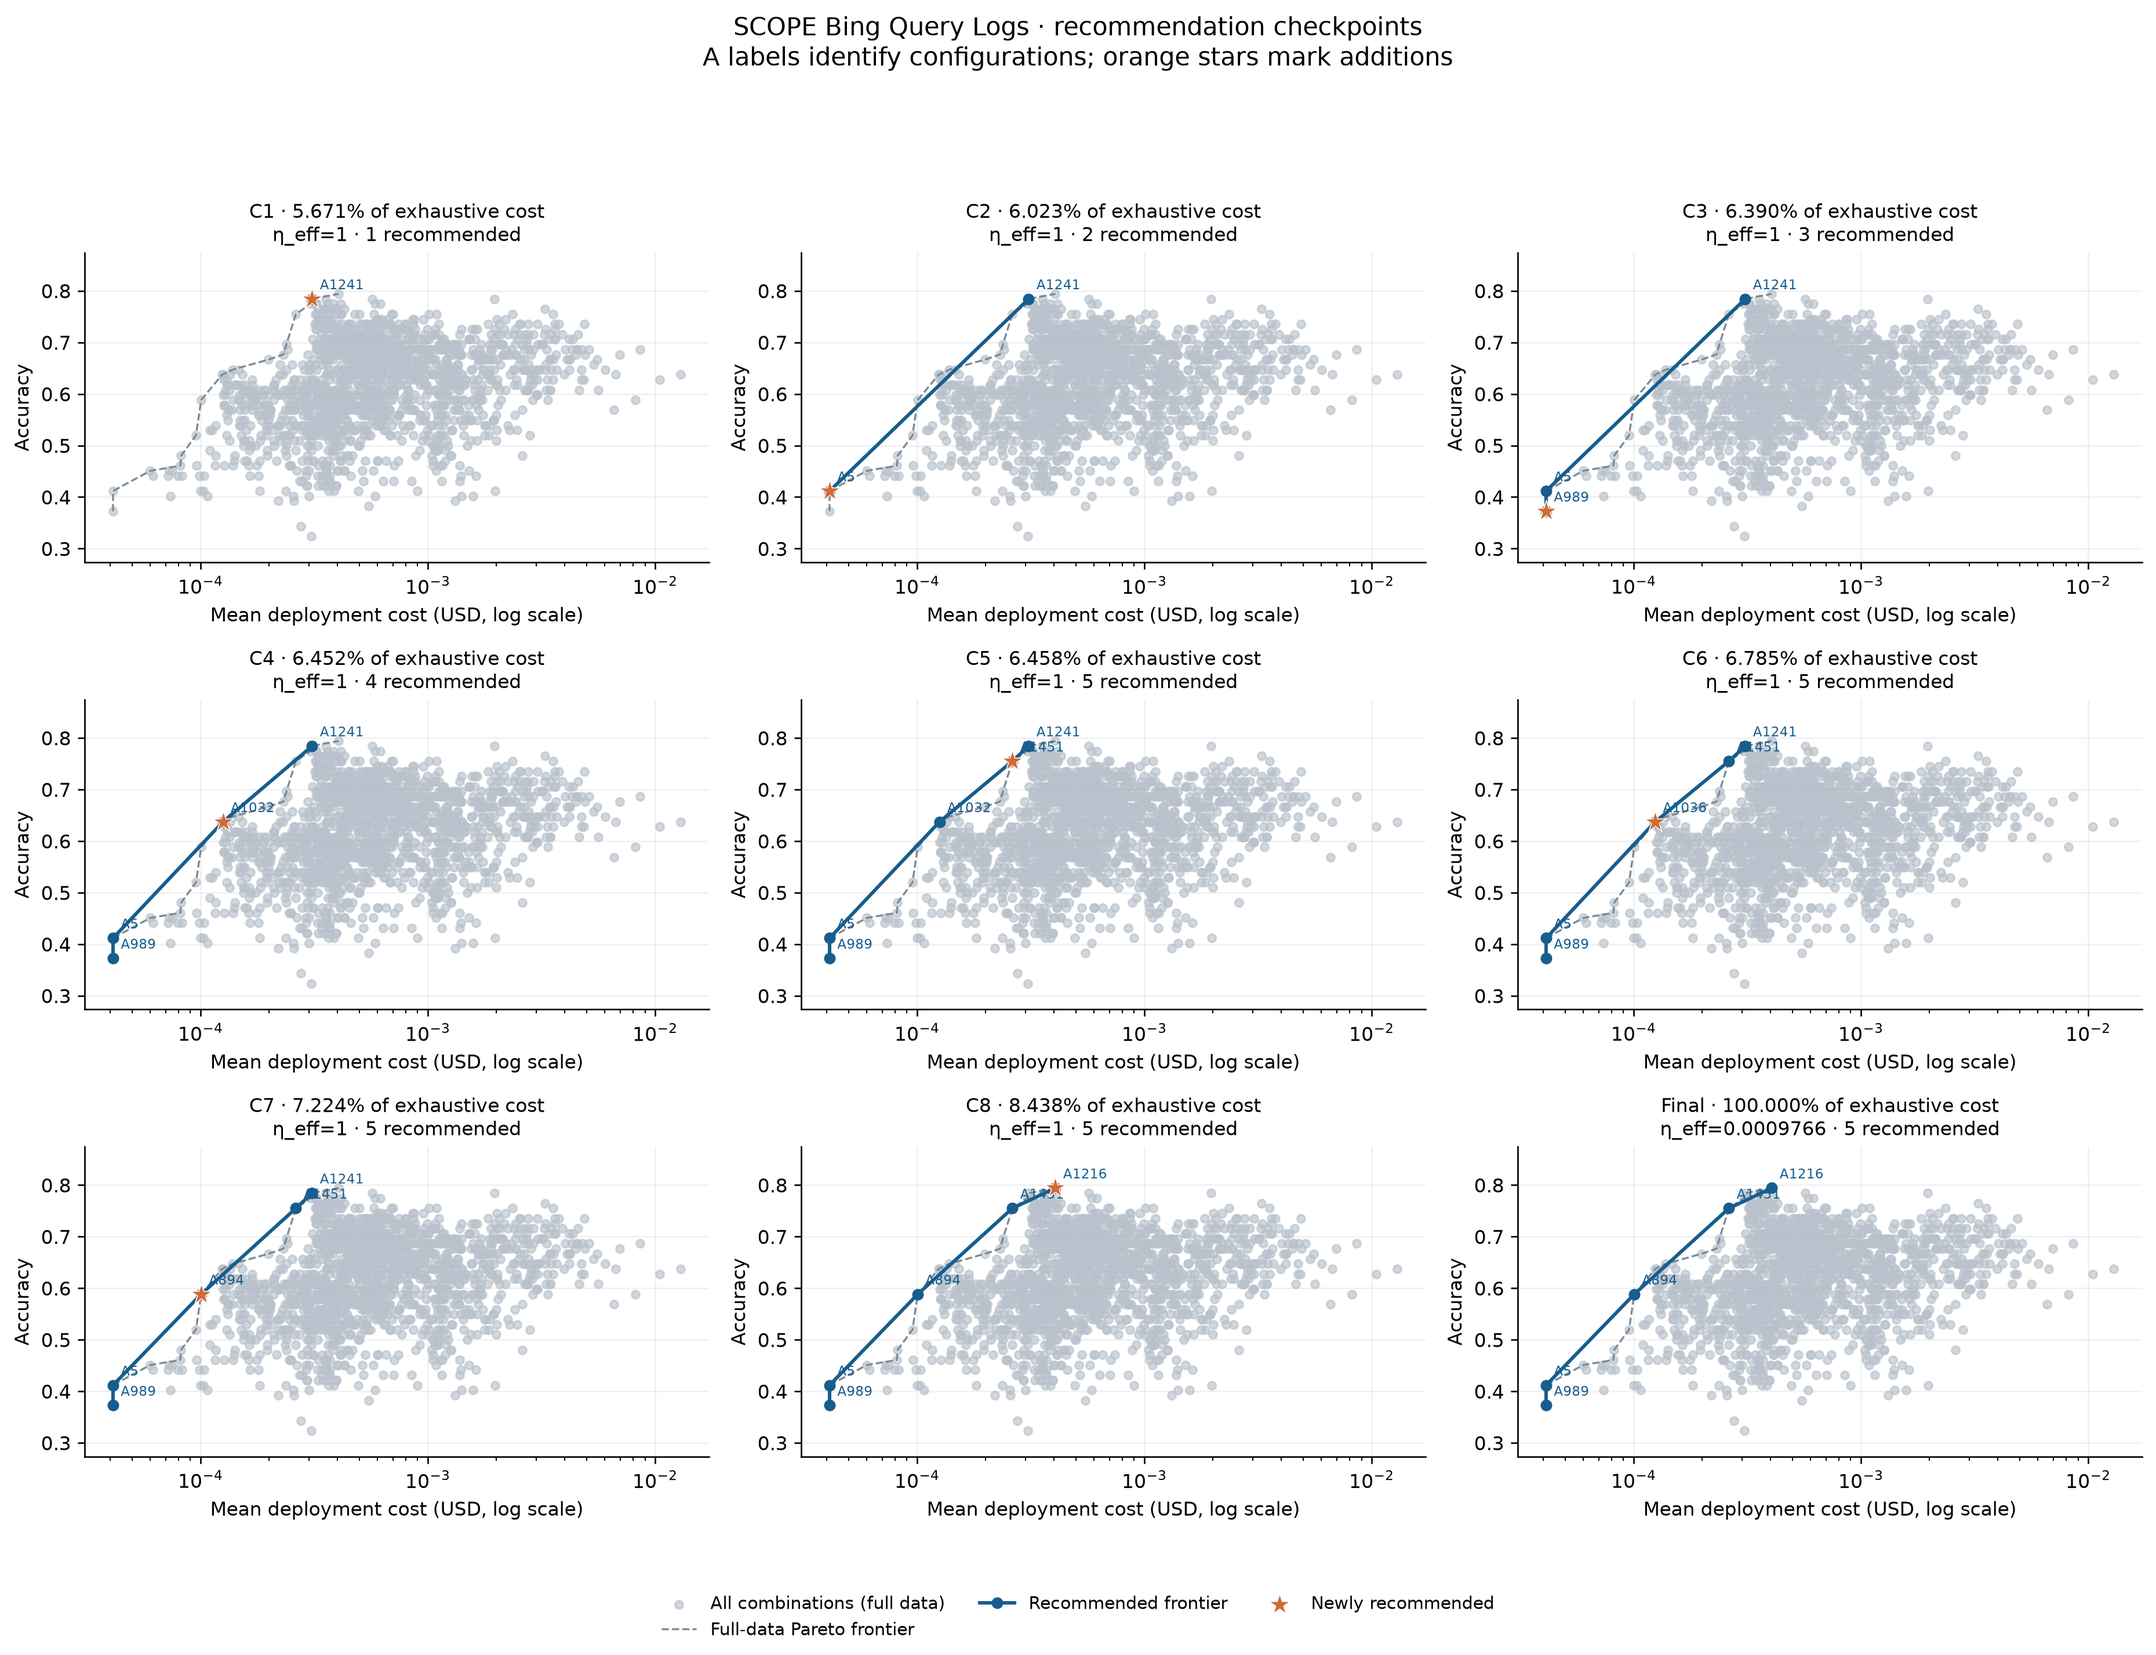
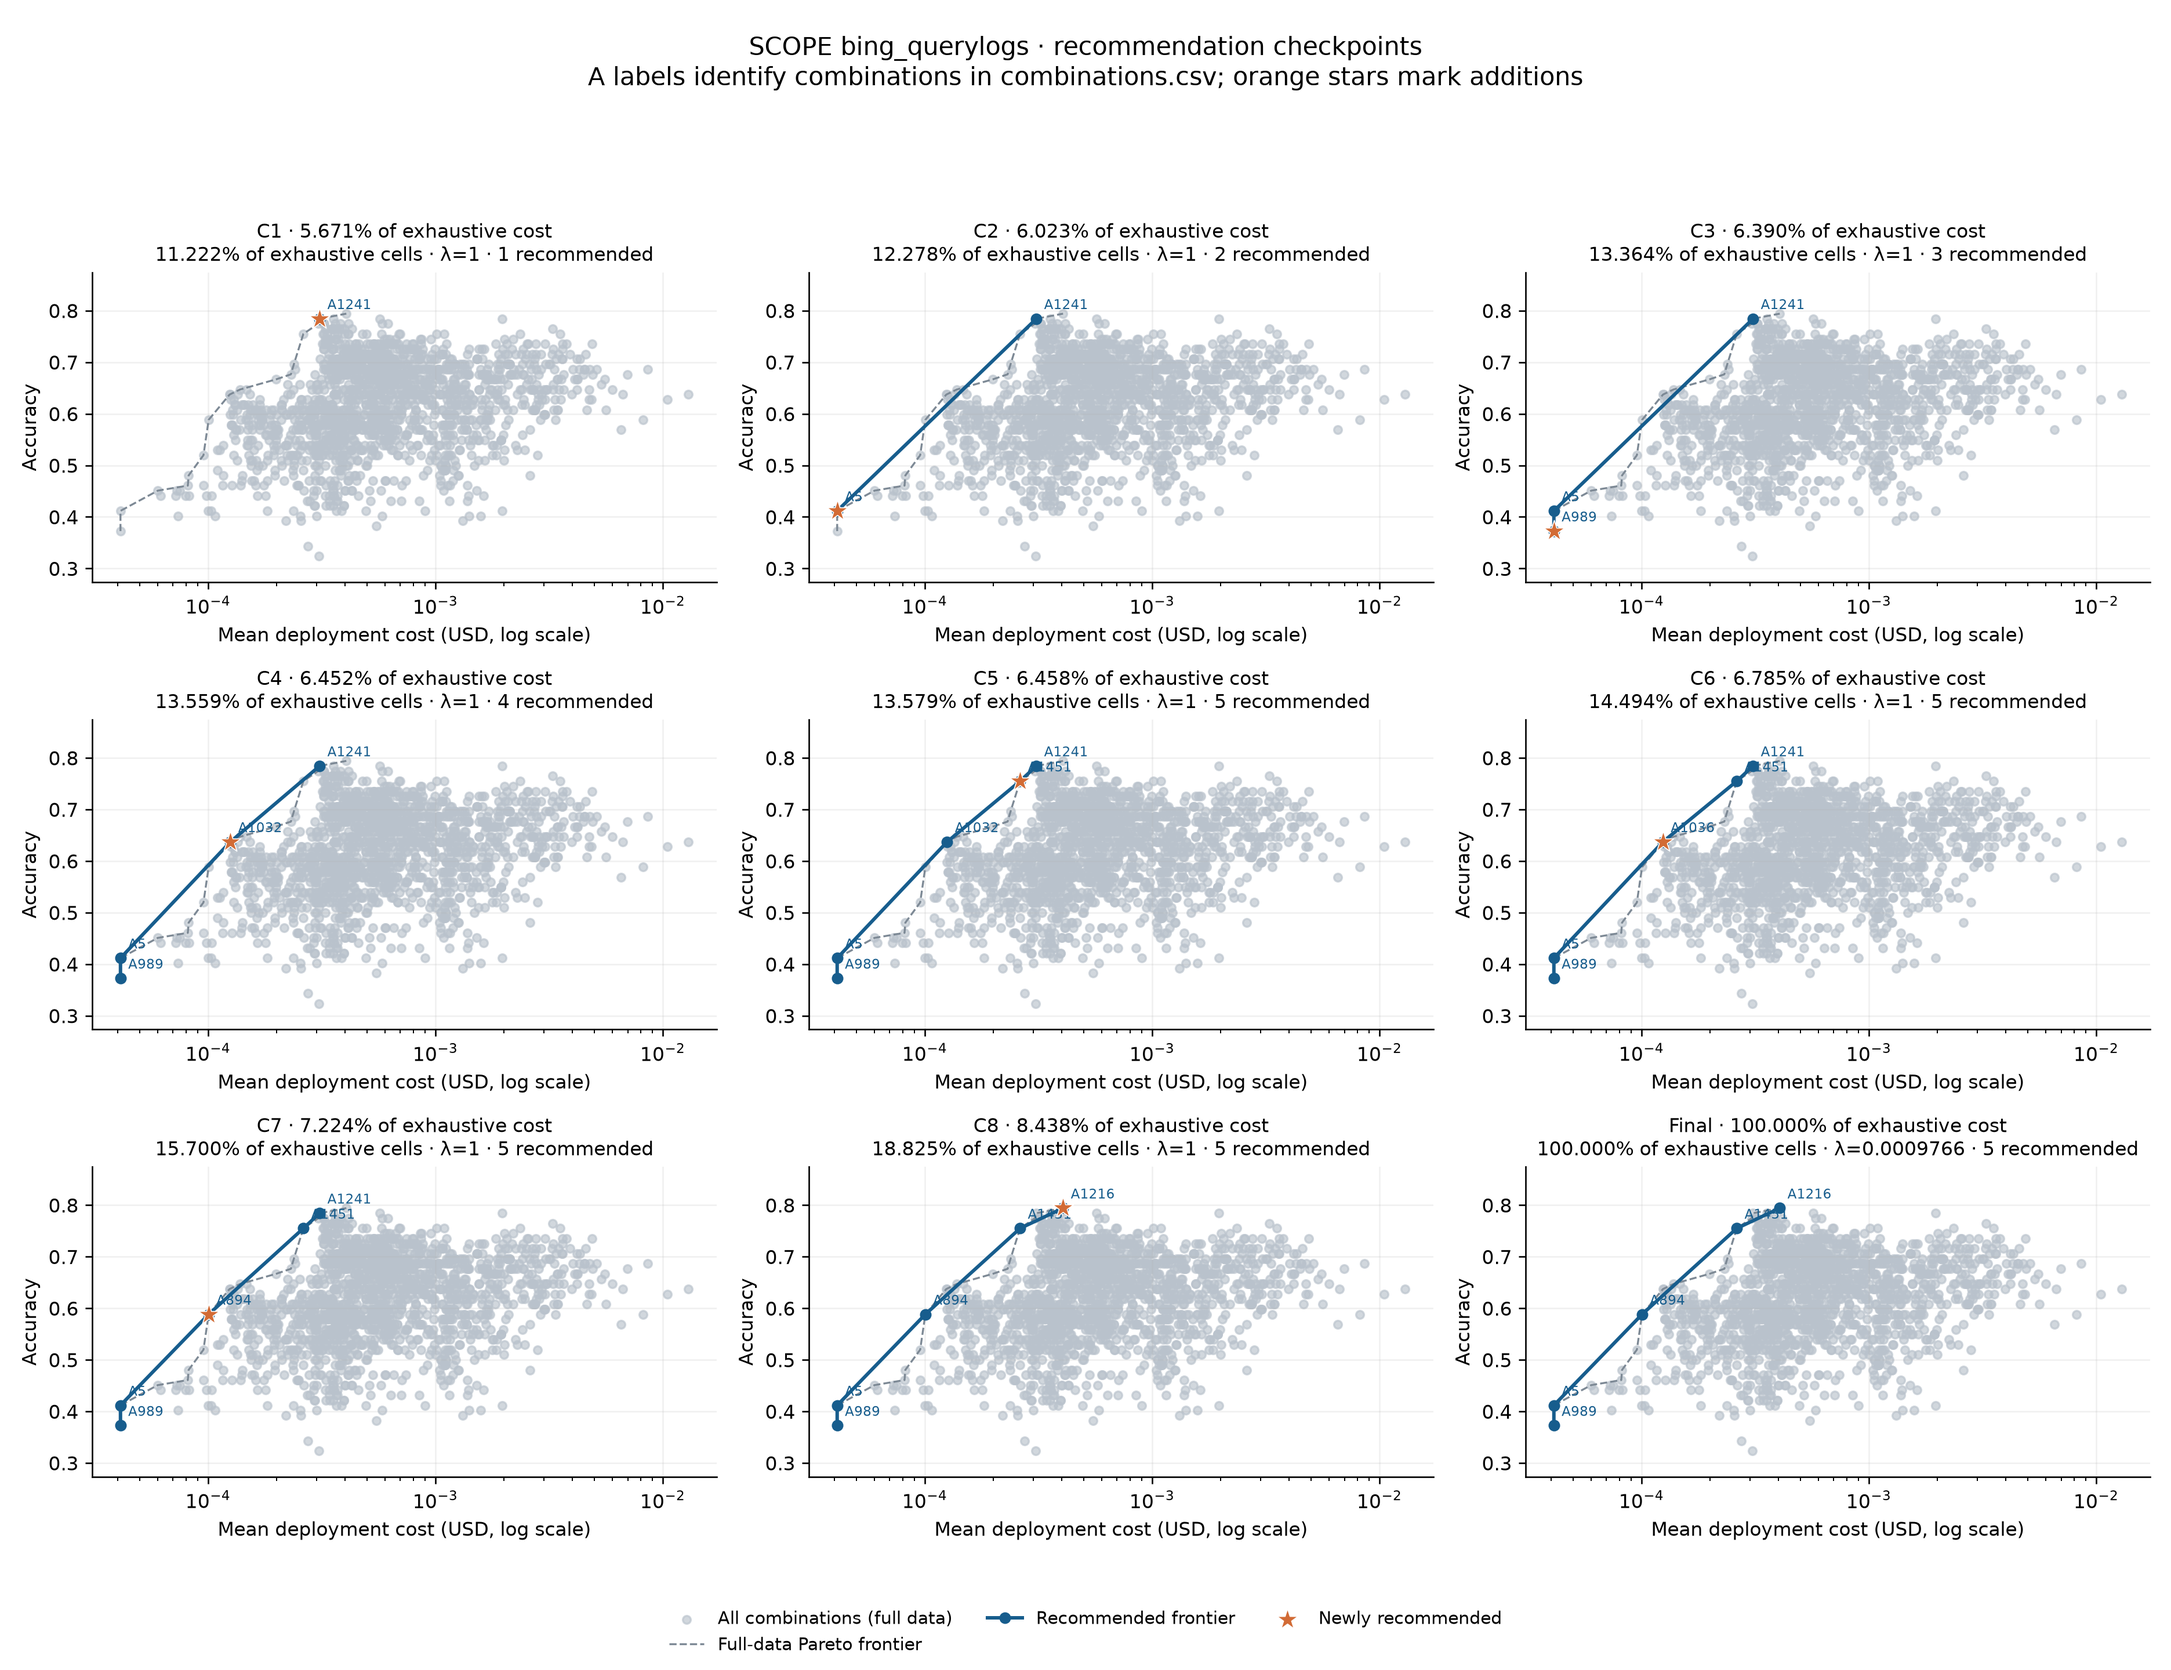
Refactor plot_anytime_radial_gittins.py to enhance figure saving and update plot titles
- Modified `_save_figure` function to accept a customizable DPI parameter.
- Updated plot titles in `plot_frontiers` to include cumulative evaluations as a percentage of exhaustive cells.
- Adjusted DPI for saved figures to 240 for improved quality.

diff --git a/experiments/combined_objective/plot/plot_anytime_radial_gittins.py b/experiments/combined_objective/plot/plot_anytime_radial_gittins.py
@@ -90,8 +90,8 @@ def key_checkpoints(run: Mapping[str, Any]) -> list[dict[str, Any]]:
     return checkpoints
 
 
-def _save_figure(fig: Any, path: Path) -> None:
-    fig.savefig(path.with_suffix(".png"), dpi=180, facecolor="white")
+def _save_figure(fig: Any, path: Path, *, dpi: int = 180) -> None:
+    fig.savefig(path.with_suffix(".png"), dpi=dpi, facecolor="white")
     fig.savefig(path.with_suffix(".svg"), facecolor="white")
     plt.close(fig)
     print(f"wrote {path.with_suffix('.png')}", flush=True)
@@ -238,6 +238,7 @@ def plot_frontiers(name: str, run: Mapping[str, Any], outdir: Path) -> None:
     raw = np.asarray(run["raw_truth_vectors"], dtype=float)
     reference = raw[raw_nondominated_indices(raw)]
     reference = reference[np.argsort(reference[:, 1])]
+    exhaustive_cells = run["params"]["available_cells_in_universe"]
     log_cost = bool(np.all(raw[:, 1] > 0) and np.ptp(np.log10(raw[:, 1])) >= 1.3)
     for page_start in range(0, len(panels), 9):
         page = panels[page_start:page_start + 9]
@@ -276,8 +277,12 @@ def plot_frontiers(name: str, run: Mapping[str, Any], outdir: Path) -> None:
             ax.set_ylim(max(0, raw[:, 0].min() - 0.05), min(1.02, raw[:, 0].max() + 0.08))
             ax.set_xlabel("Mean deployment cost (USD" + (", log scale)" if log_cost else ")"))
             ax.set_ylabel("Accuracy")
-            ax.set_title(f"{point['checkpoint']} · {point['budget_fraction']:.3%} of exhaustive cost\n"
-                         f"λ={point['current_lambda']:.4g} · {len(selected)} recommended", fontsize=10)
+            ax.set_title(
+                f"{point['checkpoint']} · {point['budget_fraction']:.3%} of exhaustive cost\n"
+                f"{point['cumulative_evaluations'] / exhaustive_cells:.3%} of exhaustive cells · "
+                f"λ={point['current_lambda']:.4g} · {len(selected)} recommended",
+                fontsize=10,
+            )
             ax.grid(alpha=0.18)
             ax.spines[["top", "right"]].set_visible(False)
         for ax in list(axes.flat)[len(page):]:
@@ -293,7 +298,7 @@ def plot_frontiers(name: str, run: Mapping[str, Any], outdir: Path) -> None:
                      fontsize=13)
         fig.tight_layout(rect=(0, 0.095 if nrows == 1 else 0.065, 1, 0.90 if nrows == 1 else 0.93))
         page_number = page_start // 9 + 1
-        _save_figure(fig, outdir / f"{name}_frontiers_{page_number:02d}")
+        _save_figure(fig, outdir / f"{name}_frontiers_{page_number:02d}", dpi=240)
 
 
 def export_tables(runs: Mapping[str, Any], outdir: Path) -> None:
